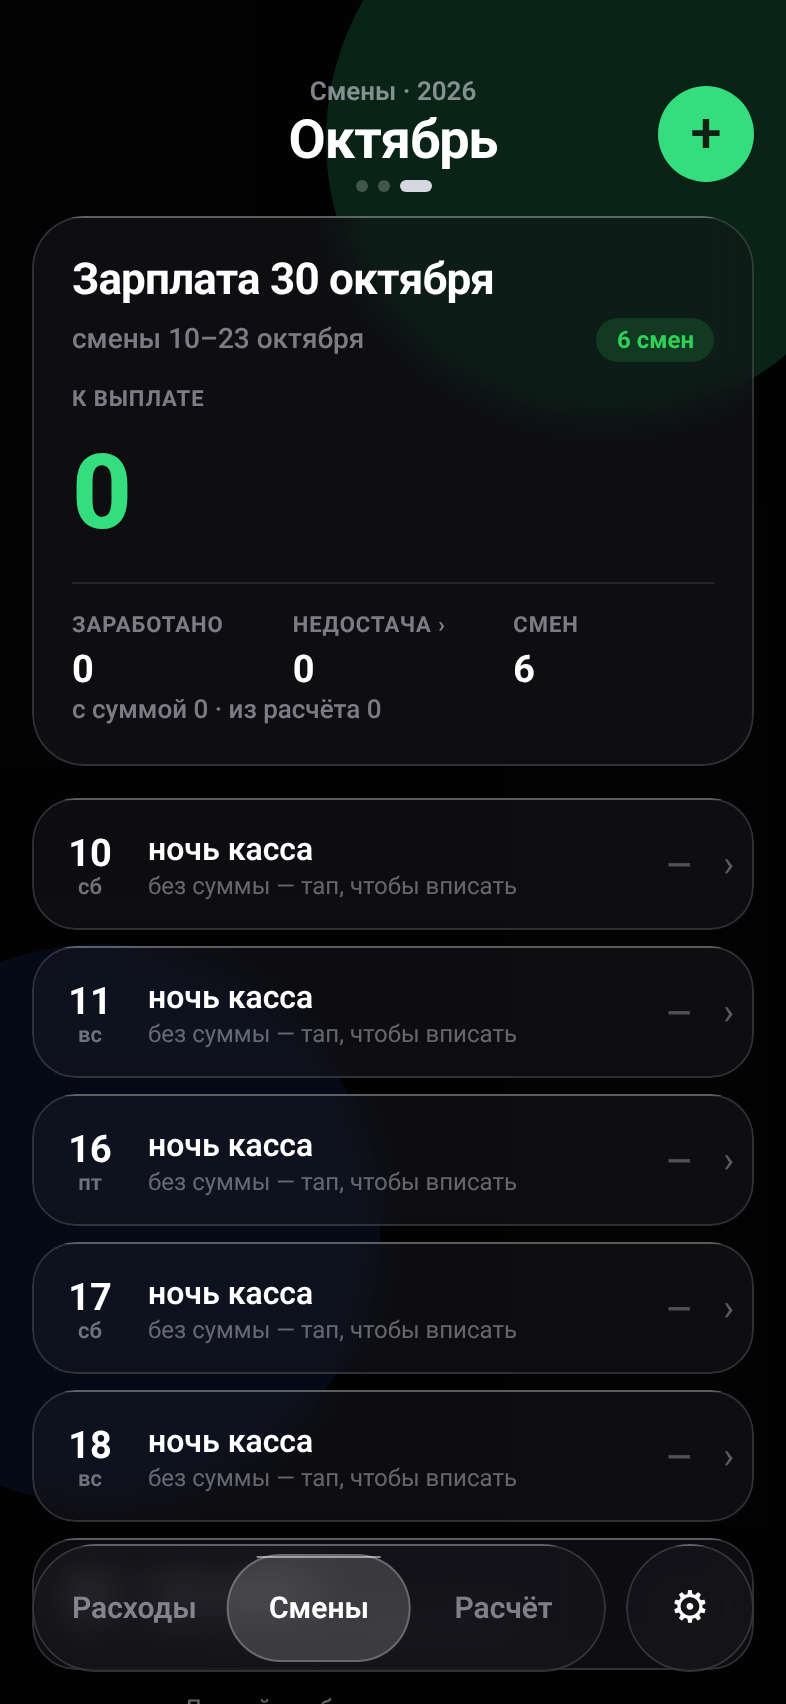
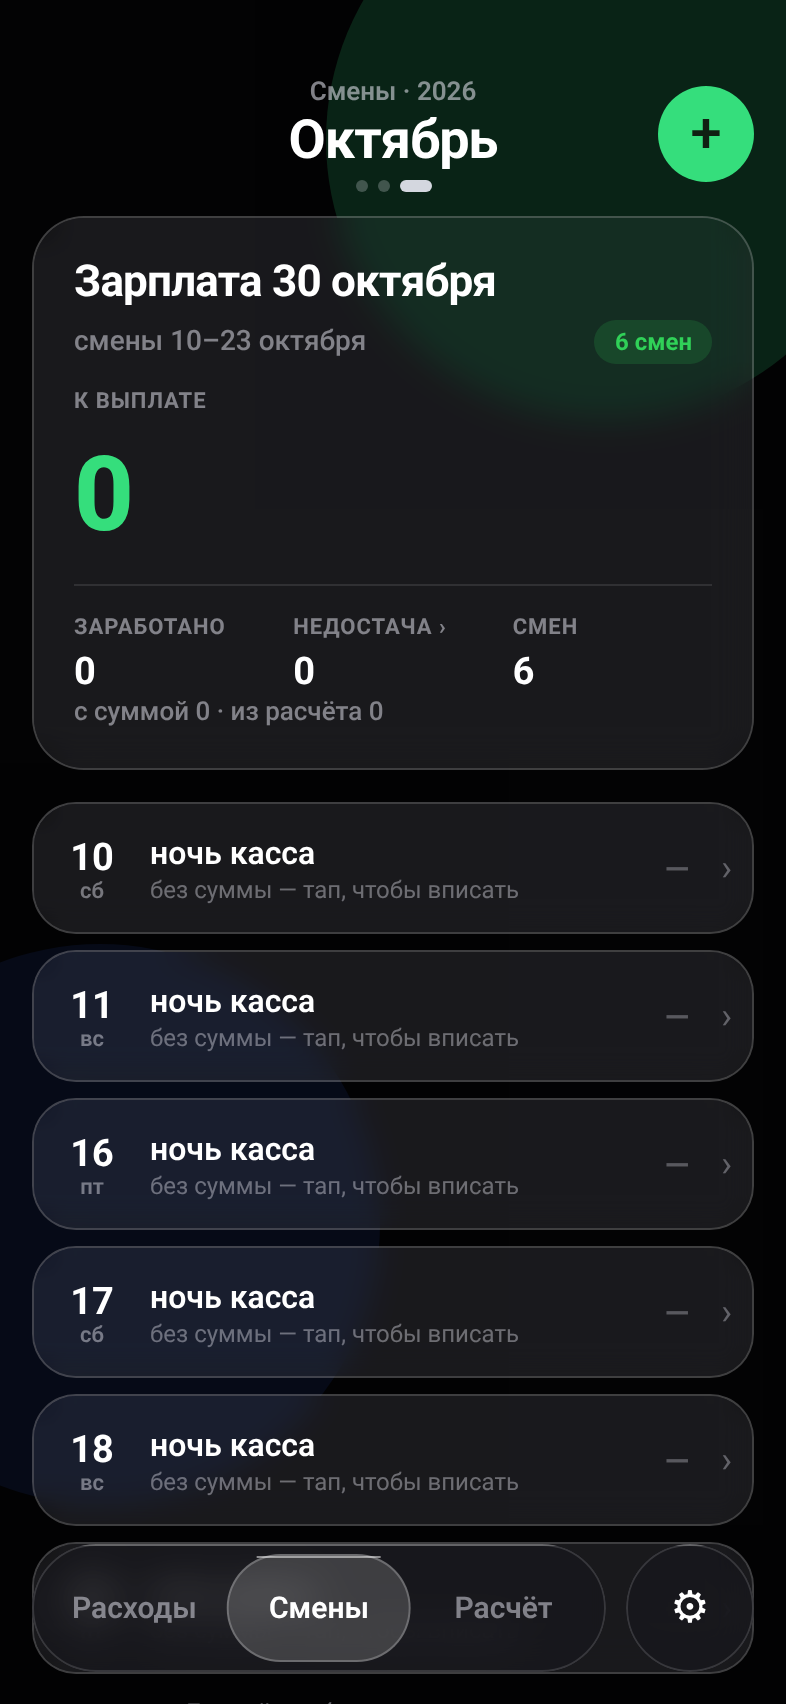
U: карточки во вкладках — один путь: заливка+кромка на самом виде с радиусом, стекло фоном; Смены/Расчёт монтируются при первом заходе (уже видимыми); без live/epoch

diff --git a/src/app/index.js b/src/app/index.js
@@ -186,41 +186,31 @@ const hapticSelect = () => Haptics.selectionAsync().catch(() => {});
 const LG = typeof isLiquidGlassAvailable === 'function' ? !!isLiquidGlassAvailable() : false;
 
 /**
- * Стекло карточек внутри вкладок (Расходы / Смены / Расчёт).
- * С Liquid Glass карточка была ГОЛЫМ GlassView — без своей подложки и кромки: вся видимость —
- * от нативного эффекта. «Смены» монтируются заранее в скрытой вкладке (opacity 0 у TabPane),
- * и нативное стекло там не появлялось — карточки становились полностью пустыми.
- * Теперь в вкладке карточка — обычный View с постоянной подложкой и кромкой (видна всегда),
- * а GlassView/BlurView — фоновый слой под содержимым, который создаётся только когда вкладка
- * активна и уже полностью проявилась (live), с новым key на каждую активацию.
- * Содержимое при этом не перемонтируется. Вне вкладок (док, шторки, меню) — как раньше.
+ * Карточки внутри вкладок (Расходы / Смены / Расчёт) — ОДИН путь для всех.
+ * Подложка (заливка) и кромка стоят прямо на том же View, у которого borderRadius и реальный
+ * размер, — видны всегда, даже если нативное стекло не нарисовалось. Стекло (GlassView, без
+ * Liquid Glass — BlurView) — фоновый слой под содержимым. Вкладки «Смены»/«Расчёт» монтируются
+ * при первом заходе, когда вкладка уже полностью видна (как «Расходы» при старте).
  */
-const PaneGlassCtx = createContext(null);
+const PaneGlassCtx = createContext(false);
 
 /** Стекло: BlurView + слои. Нативный GlassView — только если реально доступен. */
 function Glass({ children, style, intensity = 38, tint, tintFallback, interactive = false }) {
-  const pane = useContext(PaneGlassCtx);
-  if (pane && !interactive) {
-    const r = StyleSheet.flatten(style)?.borderRadius;
+  const inPane = useContext(PaneGlassCtx);
+  if (inPane && !interactive) {
     return (
-      <View style={[styles.glassBase, style]}>
-        {pane.live ? (
-          LG && GlassView ? (
-            <GlassView
-              key={pane.epoch}
-              pointerEvents="none"
-              glassEffectStyle="regular"
-              colorScheme="dark"
-              tintColor={tint}
-              style={StyleSheet.absoluteFill}
-            />
-          ) : (
-            <BlurView key={pane.epoch} pointerEvents="none" intensity={intensity} tint="dark" style={StyleSheet.absoluteFill} />
-          )
-        ) : null}
-        <View style={LG ? styles.cardBaseFill : styles.glassFill} pointerEvents="none" />
-        <View style={styles.glassTopEdge} pointerEvents="none" />
-        <View style={[styles.glassBorder, r != null && { borderRadius: r }]} pointerEvents="none" />
+      <View style={[styles.glassBase, styles.cardBase, style]}>
+        {LG && GlassView ? (
+          <GlassView
+            pointerEvents="none"
+            glassEffectStyle="regular"
+            colorScheme="dark"
+            tintColor={tint}
+            style={StyleSheet.absoluteFill}
+          />
+        ) : (
+          <BlurView pointerEvents="none" intensity={intensity} tint="dark" style={StyleSheet.absoluteFill} />
+        )}
         {children}
       </View>
     );
@@ -1186,6 +1176,8 @@ function SegLabel({ label, index, pos, fontSize }) {
 /** Смещение и время перехода между вкладками дока. */
 const TAB_SHIFT = 28;
 const TAB_IN = { duration: 260, easing: Easing.out(Easing.cubic) };
+// первый заход во вкладку: содержимое монтируется, когда она уже проявилась целиком
+const TAB_MOUNT_MS = TAB_IN.duration + 40;
 const TAB_OUT = { duration: 200, easing: Easing.out(Easing.quad) };
 const TAB_FADE = { duration: 180, easing: Easing.inOut(Easing.quad) };
 
@@ -1194,7 +1186,7 @@ const TAB_FADE = { duration: 180, easing: Easing.inOut(Easing.quad) };
  * Yoga заново раскладывает всё дерево вкладки в кадре переключения, это и был «лаг»).
  * Видимость/сдвиг — только shared values на UI-потоке.
  */
-const TabPane = memo(function TabPane({ vis, x, active, reduce, glass, children }) {
+const TabPane = memo(function TabPane({ vis, x, active, reduce, children }) {
   const st = useAnimatedStyle(() => {
     const v = vis.value;
     return {
@@ -1209,7 +1201,7 @@ const TabPane = memo(function TabPane({ vis, x, active, reduce, glass, children 
       accessibilityElementsHidden={!active}
       importantForAccessibility={active ? 'auto' : 'no-hide-descendants'}
     >
-      <PaneGlassCtx.Provider value={glass}>{children}</PaneGlassCtx.Provider>
+      <PaneGlassCtx.Provider value>{children}</PaneGlassCtx.Provider>
     </Animated.View>
   );
 });
@@ -2578,37 +2570,9 @@ export default function App() {
   const mainScrollTop = useRef(0);
 
   // ── Вкладки: плашка дока едет на UI-потоке; JS лишь переключает display.
-  // Расчёт/Смены монтируем заранее (после загрузки, в простое), а если
-  // вкладку открыли раньше — после анимации плашки, а не во время неё.
+  // Расчёт/Смены монтируем при ПЕРВОМ заходе — когда вкладка уже полностью проявилась
+  // (стекло карточек создаётся видимым, как у «Расходов» при старте), дальше держим.
   const [mounted, setMounted] = useState({ 0: true });
-  // стекло вкладок: live — вкладка активна и полностью проявилась (только тогда создаётся
-  // нативное стекло карточек); epoch — новый key стекла на каждую активацию
-  const liveRef = useRef([true, false, false]);
-  const [paneLive, setPaneLive] = useState([true, false, false]);
-  const [paneEpoch, setPaneEpoch] = useState([0, 0, 0]);
-  const paneGlass = useMemo(
-    () => [0, 1, 2].map((i) => ({ live: paneLive[i], epoch: paneEpoch[i] })),
-    [paneLive, paneEpoch]
-  );
-  useEffect(() => {
-    // ушедшие вкладки — без нативного стекла, когда доиграло исчезновение (подложка остаётся)
-    const off = setTimeout(() => {
-      if (!liveRef.current.some((v, i) => v && i !== page)) return;
-      liveRef.current = liveRef.current.map((v, i) => (i === page ? v : false));
-      setPaneLive(liveRef.current);
-    }, TAB_OUT.duration + 40);
-    // показанная — стекло создаётся заново, уже видимым
-    const on = setTimeout(() => {
-      if (liveRef.current[page]) return;
-      liveRef.current = liveRef.current.map((v, i) => (i === page ? true : v));
-      setPaneEpoch((e) => e.map((v, i) => (i === page ? v + 1 : v)));
-      setPaneLive(liveRef.current);
-    }, TAB_IN.duration + 60);
-    return () => {
-      clearTimeout(off);
-      clearTimeout(on);
-    };
-  }, [page]);
   const mountedRef = useRef(mounted);
   mountedRef.current = mounted;
   // Переход вкладок: у каждой своя видимость и сдвиг (shared values). Новая
@@ -2657,10 +2621,10 @@ export default function App() {
     // анимация уже идёт (стартовала на UI-потоке из жеста дока); здесь — только состояние
     Keyboard.dismiss();
     setPage(i);
-    if (!mountedRef.current[i]) setTimeout(() => setMounted((m) => ({ ...m, [i]: true })), 280);
+    if (!mountedRef.current[i]) setTimeout(() => setMounted((m) => ({ ...m, [i]: true })), TAB_MOUNT_MS);
   }, []);
   const goPage = useCallback((i) => {
-    setMounted((m) => (m[i] ? m : { ...m, [i]: true }));
+    if (!mountedRef.current[i]) setTimeout(() => setMounted((m) => (m[i] ? m : { ...m, [i]: true })), TAB_MOUNT_MS);
     scheduleOnUI(tabAnim, i); // переход не из дока (бейдж, «Открыть в Расчёте») — та же анимация
     setPage(i);
   }, [tabAnim]);
@@ -2866,16 +2830,6 @@ export default function App() {
 
   // ── Расчёт → Смены: связанная смена обновляется сама (с задержкой, пока вводят)
   const loadedOnce = !!state;
-  // предзагрузка вкладок «Смены» и «Расчёт», пока пользователь смотрит первую
-  useEffect(() => {
-    if (!loadedOnce) return;
-    const t1 = setTimeout(() => setMounted((m) => (m[1] ? m : { ...m, 1: true })), 500);
-    const t2 = setTimeout(() => setMounted((m) => (m[2] ? m : { ...m, 2: true })), 1100);
-    return () => {
-      clearTimeout(t1);
-      clearTimeout(t2);
-    };
-  }, [loadedOnce]);
   useEffect(() => {
     if (!calc || !loadedOnce) return;
     const t = setTimeout(() => patch((p) => syncCalcShifts(p, calc, paydayForDate, uid)), 400);
@@ -4766,7 +4720,7 @@ export default function App() {
           mainScrollTop.current = e.nativeEvent.layout.y;
         }}
       >
-        <TabPane vis={tabSV[0][0]} x={tabSV[0][1]} active={page === 0} reduce={reduceMotion} glass={paneGlass[0]}>
+        <TabPane vis={tabSV[0][0]} x={tabSV[0][1]} active={page === 0} reduce={reduceMotion}>
           <PayPager
             pos={pagePos}
             cur={pageCur}
@@ -4780,7 +4734,7 @@ export default function App() {
         </TabPane>
 
         {mounted[1] && (
-          <TabPane vis={tabSV[1][0]} x={tabSV[1][1]} active={page === 1} reduce={reduceMotion} glass={paneGlass[1]}>
+          <TabPane vis={tabSV[1][0]} x={tabSV[1][1]} active={page === 1} reduce={reduceMotion}>
             <PayPager
               pos={shiftPos}
               cur={shiftCur}
@@ -4796,7 +4750,7 @@ export default function App() {
         )}
 
         {mounted[2] && (
-          <TabPane vis={tabSV[2][0]} x={tabSV[2][1]} active={page === 2} reduce={reduceMotion} glass={paneGlass[2]}>
+          <TabPane vis={tabSV[2][0]} x={tabSV[2][1]} active={page === 2} reduce={reduceMotion}>
           <ScrollView
             style={styles.pages}
             contentContainerStyle={styles.pagesContent}
@@ -4934,10 +4888,11 @@ const styles = StyleSheet.create({
     ...StyleSheet.absoluteFillObject,
     backgroundColor: 'rgba(22,22,28,0.42)',
   },
-  // постоянная подложка карточки во вкладке поверх Liquid Glass: видна, даже если стекла нет
-  cardBaseFill: {
-    ...StyleSheet.absoluteFillObject,
-    backgroundColor: 'rgba(120,120,128,0.14)',
+  // карточка во вкладке: заливка и кромка на САМОМ виде с радиусом — видны на чёрном всегда
+  cardBase: {
+    backgroundColor: 'rgba(118,118,128,0.2)',
+    borderWidth: StyleSheet.hairlineWidth,
+    borderColor: 'rgba(255,255,255,0.16)',
   },
   glassTopEdge: {
     position: 'absolute',
